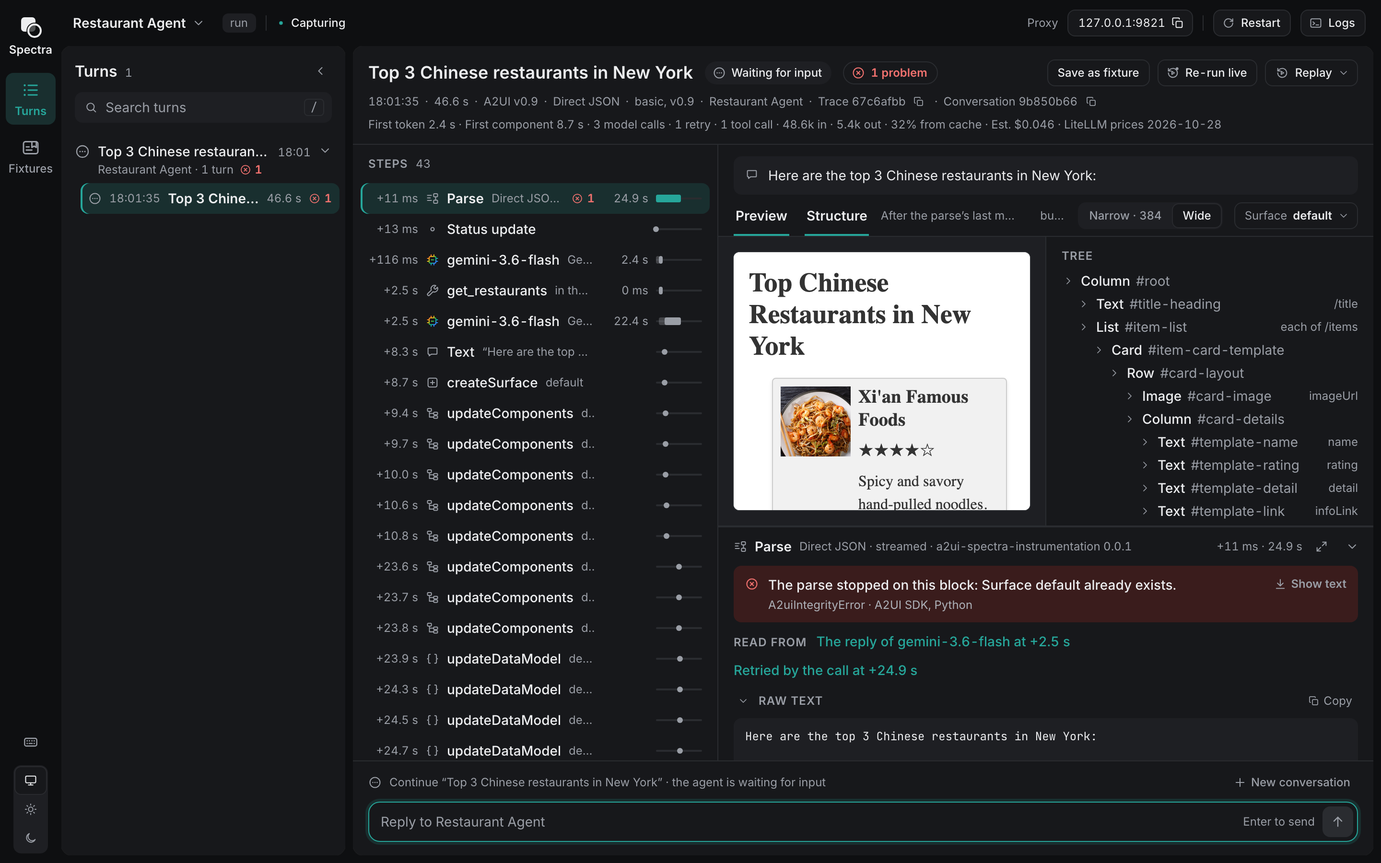
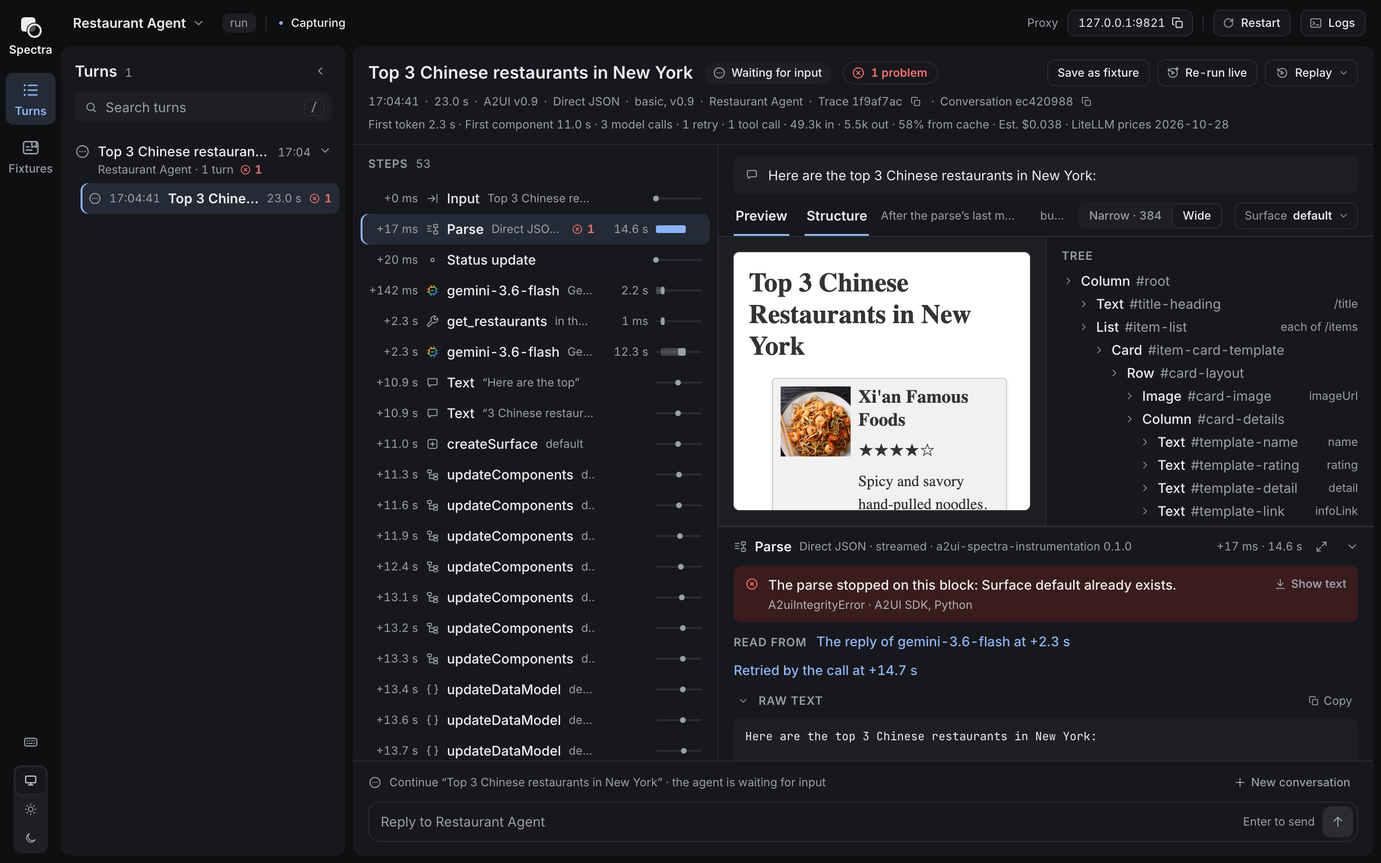
feat(phase-10): the viewer's accent following the primary colour of A2UI's documentation site, its --a2-accent, #0b57d0 in light and #8ab4f8 in dark, in place of its teal, as the design canvas draws it from its version 129: --brand-soft the site's soft accent flattened onto the panel, #ebf2fb and #2

diff --git a/tools/spectra_viewer/src/index.css b/tools/spectra_viewer/src/index.css
@@ -58,9 +58,9 @@
 }
 
 /*
- * The design artifact's colours. The one accent is the teal of A2UI's
- * documentation site, from Material Design's palette: 700 in light, 400 in
- * dark. shadcn/ui's names point at them.
+ * The design artifact's colours. The one accent is A2UI's documentation
+ * site's `--a2-accent`: #0b57d0 in light, #8ab4f8 in dark. shadcn/ui's names
+ * point at them.
  */
 :root {
   color-scheme: light;
@@ -69,8 +69,8 @@
   --panel: #ffffff;
   --tint: #f5f6f8;
   --muted-strong: #55595f;
-  --brand: #00796b;
-  --brand-soft: #e0f2f1;
+  --brand: #0b57d0;
+  --brand-soft: #ebf2fb;
   --brand-on: #ffffff;
   --problem: #c62828;
   --problem-soft: #fcedec;
@@ -105,9 +105,9 @@
   --panel: #17181b;
   --tint: #1e1f23;
   --muted-strong: #aeb2b9;
-  --brand: #26a69a;
-  --brand-soft: #192f2f;
-  --brand-on: #06201d;
+  --brand: #8ab4f8;
+  --brand-soft: #252b36;
+  --brand-on: #062e6f;
   --problem: #f2726f;
   --problem-soft: #3a1c1c;
   --success: #66bb6a;

diff --git a/tools/spectra_viewer/src/components/format.ts b/tools/spectra_viewer/src/components/format.ts
@@ -31,7 +31,7 @@ export function turnIconOf(turn: Pick<ListedTurn, 'open' | 'outcome' | 'newer'>)
   return STATUS_ICONS[turn.open ? 'open' : (turn.outcome ?? 'open')];
 }
 
-/** An icon's colour: grey for its shape alone, red for trouble, teal for what is live. */
+/** An icon's colour: grey for its shape alone, red for trouble, the accent for what is live. */
 /**
  * A model call's icon in its provider's colour: Claude's clay, OpenAI's in the
  * text colour, since OpenAI's mark carries no colour of its own, and Gemini's

diff --git a/tools/spectra_viewer/src/components/RawText.tsx b/tools/spectra_viewer/src/components/RawText.tsx
@@ -2,7 +2,7 @@
  * A parse's raw text with its component ranges: plain at rest, each
  * rejected block in red-soft; hovering outlines the innermost component
  * under the pointer, clicking selects it, and the selected component's
- * whole range takes the teal-soft tint. Text outside any component stays
+ * whole range takes the soft accent. Text outside any component stays
  * plain and links to nothing. A grey sentence above says when the ranges
  * are not all worked out.
  */

diff --git a/tools/spectra_viewer/src/components/Timeline.tsx b/tools/spectra_viewer/src/components/Timeline.tsx
@@ -262,7 +262,7 @@ function RowTag({tag}: {tag: string}) {
 /**
  * A row's lane: a narrow track with a call's bar from its start to its end,
  * lighter until a streamed model call's first token and darker after, or a
- * step's or a delivery's dot at its moment. Grey at rest, teal on the
+ * step's or a delivery's dot at its moment. Grey at rest, the accent on the
  * selected or followed row, red for a row with a problem.
  */
 function LaneMark({

diff --git a/tools/spectra_viewer/src/components/CallParts.tsx b/tools/spectra_viewer/src/components/CallParts.tsx
@@ -17,7 +17,7 @@ import {formatOffset} from './format.ts';
 import {Icon} from './icons.tsx';
 import {BlockLabel, JsonBlock, JsonLines} from './JsonBlock.tsx';
 
-/** A teal link in a detail's line, which selects another step. */
+/** A link in the accent, in a detail's line, which selects another step. */
 export function DetailLink({onClick, children}: {onClick: () => void; children: ReactNode}) {
   return (
     <button

diff --git a/docs/design/viewer.md b/docs/design/viewer.md
@@ -51,13 +51,13 @@ The restaurant finder runs under `a2ui-spectra run`, with the Python wrapper swi
 
 <picture>
   <source media="(prefers-color-scheme: dark)" srcset="../images/viewer-dark.png">
-  <img alt="The viewer on the restaurant finder's turn. The turn list holds one conversation with one turn and one problem. The header reads Top 3 Chinese restaurants in New York, Waiting for input, 1 problem, with Save as fixture, Re-run live and Replay; under it the start, the duration, A2UI v0.9, Direct JSON, basic v0.9, the agent and the ids, then First token 2.4 s, First component 8.7 s, 3 model calls, 1 retry, 1 tool call, the tokens, 32% from cache and the estimated cost. The timeline's selected row is the parse, with one problem. The result shows the preview of the restaurant card beside its tree, and the parse's detail below reads The parse stopped on this block: Surface default already exists, Read from the reply of gemini-3.6-flash at +2.5 s, Retried by the call at +24.9 s, then the raw text." src="../images/viewer-light.png">
+  <img alt="The viewer on the restaurant finder's turn. The turn list holds one conversation with one turn and one problem. The header reads Top 3 Chinese restaurants in New York, Waiting for input, 1 problem, with Save as fixture, Re-run live and Replay; under it the start, the duration, A2UI v0.9, Direct JSON, basic v0.9, the agent and the ids, then First token 2.3 s, First component 11.0 s, 3 model calls, 1 retry, 1 tool call, the tokens, 58% from cache and the estimated cost. The timeline's selected row is the parse, with one problem. The result shows the preview of the restaurant card beside its tree, and the parse's detail below reads The parse stopped on this block: Surface default already exists, Read from the reply of gemini-3.6-flash at +2.3 s, Retried by the call at +14.7 s, then the raw text." src="../images/viewer-light.png">
 </picture>
 
 1. **The turn opens.** The live stream says a turn opened. The turn list gains a row with the open turn's spinner, and since the newest turn was selected, the page selects the new one. The timeline is marked Live and follows its newest row.
-2. **The steps arrive.** A status update, then the first model call, `gemini-3.6-flash` in Gemini's colours, then the tool call `get_restaurants`, "in the agent", read from the agent's spans, then the second model call, whose bar is lighter until its first token and darker after. The parse row, "Parse · Direct JSON · streamed", draws a bar from its start to its end. The text part and the A2UI messages follow, each a dot at its moment.
+2. **The steps arrive.** A status update, then the first model call, `gemini-3.6-flash` in Gemini's colours, then the tool call `get_restaurants`, "in the agent", read from the agent's spans, then the second model call, whose bar is lighter until its first token and darker after. The parse row, "Parse · Direct JSON · streamed", draws a bar from its start to its end. Two text parts and the A2UI messages follow, each a dot at its moment.
 3. **The turn closes.** It ends waiting for input. The view lands on its first problem, the parse, and opens the step's detail on it. The header reads "1 problem"; its second line gives the start, the duration, the A2UI version, the inference format and the catalog the turn used; its third line the time to the first token and to the first component, the calls, the retry, the tokens, the share read from the cache and the estimated cost.
-4. **The parse's detail says what happened.** "The parse stopped on this block: Surface default already exists." over "A2uiIntegrityError · A2UI SDK, Python", with Show text. "Read from" links the model call whose reply the parse read, "The reply of gemini-3.6-flash at +2.5 s", and "Retried by the call at +24.9 s" links the call that followed. The raw text below has the rejected block in red.
+4. **The parse's detail says what happened.** "The parse stopped on this block: Surface default already exists." over "A2uiIntegrityError · A2UI SDK, Python", with Show text. "Read from" links the model call whose reply the parse read, "The reply of gemini-3.6-flash at +2.3 s", and "Retried by the call at +14.7 s" links the call that followed. The raw text below has the rejected block in red.
 5. **The result shows the surfaces after the parse.** The note reads "After the parse’s last message", the Preview draws the restaurant card through the basic catalog's renderer, and Structure shows its tree, each row with the path it binds.
 6. **The retry says why.** Selecting the third model call shows, before its prefix break, a grey sentence naming the call whose reply failed and the error, with "failed to parse" a link back to the parse.
 
@@ -239,14 +239,14 @@ On the right of the first line sit [Save as fixture](#save-as-fixture), [Re-run 
 
 | Part                        | What it counts                                                                                                                                         |
 | --------------------------- | ------------------------------------------------------------------------------------------------------------------------------------------------------ |
-| "First token 2.4 s"         | From the turn's start to the first model call's first chunk, or its end when it did not stream or is read from spans only. A miss gives no first token |
-| "First component 8.7 s"     | From the turn's start to the first A2UI message                                                                                                        |
+| "First token 2.3 s"         | From the turn's start to the first model call's first chunk, or its end when it did not stream or is read from spans only. A miss gives no first token |
+| "First component 11.0 s"    | From the turn's start to the first A2UI message                                                                                                        |
 | "3 model calls"             | The model calls, raw ones and those read from spans only included                                                                                      |
 | "1 retry"                   | The retries among them, when there are any                                                                                                             |
 | "1 tool call"               | The full tool rows: housekeeping and the toolset's calls, shown as their parses, are left out                                                          |
-| "48.6k in · 5.4k out"       | The input and output tokens summed over the calls with usage, those read from spans only included, as `9.1k` above a thousand                          |
-| "32% from cache"            | The share of the input read from the cache, when the turn read any                                                                                     |
-| "Est. $0.046"               | The estimated cost of the priced calls, to two significant figures and at most four decimals                                                           |
+| "49.3k in · 5.5k out"       | The input and output tokens summed over the calls with usage, those read from spans only included, as `9.1k` above a thousand                          |
+| "58% from cache"            | The share of the input read from the cache, when the turn read any                                                                                     |
+| "Est. $0.038"               | The estimated cost of the priced calls, to two significant figures and at most four decimals                                                           |
 | "1 call unpriced"           | How many calls have no price                                                                                                                           |
 | "LiteLLM prices 2026-10-28" | The price table's date, or "Prices from the config" when every priced call used the config's price                                                     |
 | "1 call recorded raw"       | How many calls were recorded raw                                                                                                                       |
@@ -283,7 +283,7 @@ A call recorded raw is grey, unless a span linked to it names its provider, whos
 
 **Tags and marks.** A model call that is a retry carries a grey "Retry 1" tag before the problem mark's column; which calls are retries is worked out as [the A2UI step](a2ui-step.md#what-spectra-does-with-the-spans) describes. Each step with a problem carries a red mark and its count, and a step whose message carried components in the legacy form carries an hourglass after it. A call served from the record carries "Record"; see [A served call](#a-served-call-a-miss-and-a-live-call).
 
-**The time lane.** Every row ends in a narrow lane, drawn against the length of the whole turn, from its start to the latest of its end and every row's end, the present on a live turn. A call is a bar: a model call's lighter until a streamed call's first token and darker after; a tool call's, a call's read from spans only and a model call's that did not stream, darker throughout; with its duration beside the lane. A step or a delivery is a dot at its moment. The lane is grey, teal on the selected row and red on a row with a problem. An in-flight call's duration counts up and its bar grows. An offset or a duration of a minute or more reads `1m 27s` in the timeline's columns, and so does an event's offset in the spans' events. As the timeline narrows, the target gives way first, then the name; the problem mark, the duration and the lane keep their width.
+**The time lane.** Every row ends in a narrow lane, drawn against the length of the whole turn, from its start to the latest of its end and every row's end, the present on a live turn. A call is a bar: a model call's lighter until a streamed call's first token and darker after; a tool call's, a call's read from spans only and a model call's that did not stream, darker throughout; with its duration beside the lane. A step or a delivery is a dot at its moment. The lane is grey, blue on the selected row and red on a row with a problem. An in-flight call's duration counts up and its bar grows. An offset or a duration of a minute or more reads `1m 27s` in the timeline's columns, and so does an event's offset in the spans' events. As the timeline narrows, the target gives way first, then the name; the problem mark, the duration and the lane keep their width.
 
 **What the result shows for a row.** Selecting a step shows the surfaces as they stood right after it. Selecting a parse shows them after the last wire message traced to it, "After the parse’s last message", or, when none is, as they stood at the parse's end, "Right after the parse at" its start. Selecting a call shows them at its end, or the latest state while it is in flight. A call's step in the page address is its proxy's span id, else its innermost span's.
 
@@ -462,7 +462,7 @@ The title line holds "Parse", on a toolset parse the tool's name, its format, "s
 
 1. **"Read from"**, the model call the parse read, as a link: "The reply of gemini-3.6-flash at +2.0 s"; "The tool call of gemini-3.6-flash at +1.4 s" when the input sits in one of its tool calls' arguments and in none of its text; or "Tied to no model call". Which call that is, is worked out as [the A2UI step](a2ui-step.md#what-spectra-does-with-the-spans) describes: the one of its turn whose reply text, or one of whose tool-call arguments, holds the parse's input or is held in it; when several, the one accounting for the most of the input, as a reply the input holds over a tool call's argument the input quotes, then the latest started before the parse, else the latest of them. Failing that, it is the latest model call started before the parse, unless two started at once.
 2. **"Retried by the call at +5.0 s"**, on a failed parse that was retried, on its own line, a link that selects the retry.
-3. **"Raw text"**, open, monospace, plain at rest, each rejected block in red. Each component's characters are worked out by a reader of the parse's inference format, as [the A2UI step](a2ui-step.md#what-spectra-does-with-the-spans) describes. Hovering outlines the innermost component under the pointer; clicking selects it, its whole range taking the teal tint, scrolled into view, and its tree node selected. Text outside any component stays plain. A grey sentence above says when the ranges are not all worked out: "No component ranges · the parse names no inference format", also for a format no reader reads; "No component ranges · the Express reader could not read this text"; or "Component ranges up to character 1,204 · the Express reader stopped there".
+3. **"Raw text"**, open, monospace, plain at rest, each rejected block in red. Each component's characters are worked out by a reader of the parse's inference format, as [the A2UI step](a2ui-step.md#what-spectra-does-with-the-spans) describes. Hovering outlines the innermost component under the pointer; clicking selects it, its whole range taking the blue tint, scrolled into view, and its tree node selected. Text outside any component stays plain. A grey sentence above says when the ranges are not all worked out: "No component ranges · the parse names no inference format", also for a format no reader reads; "No component ranges · the Express reader could not read this text"; or "Component ranges up to character 1,204 · the Express reader stopped there".
 4. **"Returned to the model"**, what the toolset's tool returned, on its call, its `validated_a2ui_json` folded.
 5. **"Messages"**, the messages the parse produced, folded on their label line with their count, those a failed parse produced before its error included.
 6. **The spans**: "From the agent’s spans", with the step span's scope as its source line; on a toolset parse, the parse's span first with its translated names, then the tool call's chain, "Above this tool call".
@@ -525,11 +525,11 @@ The Fixtures section switches the panels: the fixtures list and the fixture view
 
 #### The fixture view
 
-The fixture view is the turn view's shape, under a fixture line: "Fixture", the file's name as a copy button, the turn count, the recorded estimated cost, priced as the header's third line prices it, "recorded $0.036" or "recorded cost unknown", left out until the prices are read, or "nothing recorded to serve" on a record with nothing to serve, and when it was saved, "saved 2026-11-14 18:13".
+The fixture view is the turn view's shape, under a fixture line: "Fixture", the file's name as a copy button, the turn count, the recorded estimated cost, priced as the header's third line prices it, "recorded $0.038" or "recorded cost unknown", left out until the prices are read, or "nothing recorded to serve" on a record with nothing to serve, and when it was saved, "saved 2026-11-21 17:10".
 
 <picture>
   <source media="(prefers-color-scheme: dark)" srcset="../images/replay-menu-dark.png">
-  <img alt="The Fixtures section with one fixture, chinese-restaurants, holding one turn with one problem. Its view's fixture line reads Fixture, chinese-restaurants.json, 1 turn, recorded $0.036, saved 2026-11-14 18:13. The Replay popover is open with two rows: Everything recorded, Free, the model and the tools answer from the record; and Tools recorded, model live, Up to $0.036, a request that changed goes to the model." src="../images/replay-menu-light.png">
+  <img alt="The Fixtures section with one fixture, chinese-restaurants, holding one turn with one problem. Its view's fixture line reads Fixture, chinese-restaurants.json, 1 turn, recorded $0.038, saved 2026-11-21 17:10. The Replay popover is open with two rows: Everything recorded, Free, the model and the tools answer from the record; and Tools recorded, model live, Up to $0.038, a request that changed goes to the model." src="../images/replay-menu-light.png">
 </picture>
 
 - A press in its preview is dropped.
@@ -549,7 +549,7 @@ Replay sits on the right of the header's first line, in Turns and in the fixture
 | Row                          | Cost label                                                                                                                                                                                                                    |
 | ---------------------------- | ----------------------------------------------------------------------------------------------------------------------------------------------------------------------------------------------------------------------------- |
 | "Everything recorded"        | "Free · the model and the tools answer from the record"; on a record with nothing to serve, by the server's rule, the row is off and reads "No model or tool calls were recorded"                                             |
-| "Tools recorded, model live" | "Up to $0.036 · a request that changed goes to the model", the record's recorded cost; "Cost unknown · a request that changed goes to the model" with no priced call; "Cost unknown · nothing recorded" with nothing to serve |
+| "Tools recorded, model live" | "Up to $0.038 · a request that changed goes to the model", the record's recorded cost; "Cost unknown · a request that changed goes to the model" with no priced call; "Cost unknown · nothing recorded" with nothing to serve |
 
 Both rows are off, with Re-run's note under their label, whenever [Re-run live](#re-run-live) is. The server is the authority on a refusal: its answer is shown in the popover, with nothing moved. Pressing a row starts the replay; the rows are off while the request is on its way, and the popover closes once the first turn has opened. The page switches to Turns and follows the replayed turns as they open, until another turn is selected or the address moves. In the fixture view, Replay replays the whole fixture, whatever turn is in view. What the two modes do is in [replay and fixtures](replay-and-fixtures.md).
 
@@ -573,7 +573,7 @@ A replayed turn has a fourth quiet line under its header: "Replayed from", the s
 
 <picture>
   <source media="(prefers-color-scheme: dark)" srcset="../images/replay-passed-dark.png">
-  <img alt="A replayed turn of the fixture. The header's third line reads First token 14 ms, First component 72 ms, 1 retry, 1 tool call, 3 calls from the record, Free; the fourth line reads Replayed from chinese-restaurants.json, turn 1 of 1, everything recorded, passed. The two served model calls carry a grey Record tag in the timeline." src="../images/replay-passed-light.png">
+  <img alt="A replayed turn of the fixture. The header's third line reads First token 175 ms, First component 231 ms, 1 retry, 1 tool call, 3 calls from the record, Free; the fourth line reads Replayed from chinese-restaurants.json, turn 1 of 1, everything recorded, passed. The two served model calls carry a grey Record tag in the timeline." src="../images/replay-passed-light.png">
 </picture>
 
 A re-run turn's line reads "Re-run of", its source, its number of the total and "live", with no verdict and no colour, and its header's third line counts every call as live.
@@ -612,7 +612,7 @@ Its header, "Logs", names the agent's command, cut, and counts the lines held an
 - **Each output line**, with its time to the millisecond in the page's time zone, its stream as `out` or `err`, and its text, the ANSI escape codes stripped and only what follows the line's last carriage return shown, the carriage returns the line ends in not counted. A long line scrolls sideways while the dividers and markers stay in view.
 - **Each divider** the buffer holds, "Started · uv run ." and "Stopped · prompt_builder.py changed · exited with code 143", the session's first start included; a long one is cut, with its whole text as its tooltip.
 - **"No output yet."**, under the dividers for as long as no output line is held.
-- **Turn markers.** Each listed turn, whatever agent the turn list is showing, is marked where it opened, "Turn opened ·" and its name as the turn list names it, or "A turn" before its input has come, a link that selects it in Turns and leaves the drawer open; and where it closed, "Turn closed ·" with its outcome in the header's words, lower-case, and its duration, "Turn closed · waiting for input · 46.6 s". A marker is drawn only when its moment is not earlier than the oldest entry the buffer holds; among the entries of its millisecond, an opened marker comes first and a closed one last.
+- **Turn markers.** Each listed turn, whatever agent the turn list is showing, is marked where it opened, "Turn opened ·" and its name as the turn list names it, or "A turn" before its input has come, a link that selects it in Turns and leaves the drawer open; and where it closed, "Turn closed ·" with its outcome in the header's words, lower-case, and its duration, "Turn closed · waiting for input · 23.0 s". A marker is drawn only when its moment is not earlier than the oldest entry the buffer holds; among the entries of its millisecond, an opened marker comes first and a closed one last.
 
 The drawer follows its end until the reader scrolls up, and Jump to latest resumes. It closes by its close button, "Close the logs", or by Logs; Escape does not close it. While the page is not connected, it keeps what it held.
 

diff --git a/docs/design/turn-end-to-end.md b/docs/design/turn-end-to-end.md
@@ -64,7 +64,7 @@ The record states what each tap saw. The retry, the model call a parse read, the
 
 The restaurant finder runs from its folder in upstream's repository under `a2ui-spectra run`, launched through `opentelemetry-instrument` with [the recipe for a Python agent](opentelemetry.md#the-recipe-for-a-python-agent) and the Python wrapper, [switched on](a2ui-step.md#switching-it-on) by the same launch. Its model is Gemini's `gemini-3.6-flash`, which ADK calls through Google's SDK, google-genai. You send "Top 3 Chinese restaurants in New York" from the message box. The viewer, from that run:
 
-![The viewer on upstream's Python restaurant finder. The first screen names the agent, Restaurant Agent, capturing, with an example from its card and the wire proxy's address. Then the turn Top 3 Chinese restaurants in New York is open, its timeline marked Live: the input, a status update, the first model call, the tool call get_restaurants and the second model call arrive as steps, then a text and the A2UI messages, while the built-in page draws the restaurant list in the preview and the tree grows in Structure. A third model call is tagged Retry 1. The turn closes waiting for input, with one problem, and the view lands on the parse.](../images/turn.gif)
+![The viewer on upstream's Python restaurant finder. The first screen names the agent, Restaurant Agent, capturing, with an example from its card and the wire proxy's address. Then the turn Top 3 Chinese restaurants in New York is open, its timeline marked Live: the input, a status update, the first model call, the tool call get_restaurants and the second model call arrive as steps, then two text parts and the A2UI messages, while the built-in page draws the restaurant list in the preview and the tree grows in Structure. A third model call is tagged Retry 1. The turn closes waiting for input, with one problem, and the view lands on the parse.](../images/turn.gif)
 
 The parts the turn crosses, in order:
 
@@ -210,7 +210,7 @@ The two numbers are the rejected block's place in the parse's input, in UTF-16 c
 
 ### 6. The replies cross the wire, and the turn closes
 
-The restaurant finder answers with a stream of A2A status updates. Each A2UI message rides in a data part marked with A2UI's MIME type. The wire proxy passes the stream on to the message box as it arrives and reads a copy: each delivery becomes a `wire_output` event, its A2UI parts kept as the agent wrote them, and each is on the live stream as it is captured. The viewer draws them as steps: a text, `createSurface` for `default`, then the `updateComponents` and `updateDataModel` messages that fill it.
+The restaurant finder answers with a stream of A2A status updates. Each A2UI message rides in a data part marked with A2UI's MIME type. The wire proxy passes the stream on to the message box as it arrives and reads a copy: each delivery becomes a `wire_output` event, its A2UI parts kept as the agent wrote them, and each is on the live stream as it is captured. The viewer draws them as steps: two text parts, `createSurface` for `default`, then the `updateComponents` and `updateDataModel` messages that fill it.
 
 The turn closes when the agent's reply ends. Its outcome is the last task state the reply carried, `input-required`, written `waiting_for_input` and shown as "Waiting for input"; its protocol version is its first A2UI message's, `v0.9`. [Where A2UI sits in an A2A message](wire.md#where-a2ui-sits-in-an-a2a-message) and [how a turn closes](wire.md#how-a-turn-closes-and-its-outcome) have the rules.
 
@@ -250,10 +250,10 @@ The store then writes the turn as one turn record file, `.a2ui-spectra/turns/<co
 
 <picture>
   <source media="(prefers-color-scheme: dark)" srcset="../images/viewer-dark.png">
-  <img alt="The viewer on the closed turn. The context bar reads Restaurant Agent, run, Capturing, with the wire proxy's address 127.0.0.1:9821, Restart and Logs. The turn list holds one conversation with one turn and one problem. The header reads Top 3 Chinese restaurants in New York, Waiting for input, 1 problem, with Save as fixture, Re-run live and Replay; then 18:01:35, 46.6 s, A2UI v0.9, Direct JSON, basic v0.9, Restaurant Agent and the trace and conversation ids; then First token 2.4 s, First component 8.7 s, 3 model calls, 1 retry, 1 tool call, 48.6k in, 5.4k out, 32% from cache, Est. $0.046, LiteLLM prices 2026-10-28. The timeline's selected row is the parse. The result shows the restaurant card in the Preview beside its tree in Structure, and the parse's detail reads The parse stopped on this block: Surface default already exists, Read from the reply of gemini-3.6-flash at +2.5 s, Retried by the call at +24.9 s, then the raw text." src="../images/viewer-light.png">
+  <img alt="The viewer on the closed turn. The context bar reads Restaurant Agent, run, Capturing, with the wire proxy's address 127.0.0.1:9821, Restart and Logs. The turn list holds one conversation with one turn and one problem. The header reads Top 3 Chinese restaurants in New York, Waiting for input, 1 problem, with Save as fixture, Re-run live and Replay; then 17:04:41, 23.0 s, A2UI v0.9, Direct JSON, basic v0.9, Restaurant Agent and the trace and conversation ids; then First token 2.3 s, First component 11.0 s, 3 model calls, 1 retry, 1 tool call, 49.3k in, 5.5k out, 58% from cache, Est. $0.038, LiteLLM prices 2026-10-28. The timeline's selected row is the parse. The result shows the restaurant card in the Preview beside its tree in Structure, and the parse's detail reads The parse stopped on this block: Surface default already exists, Read from the reply of gemini-3.6-flash at +2.3 s, Retried by the call at +14.7 s, then the raw text." src="../images/viewer-light.png">
 </picture>
 
-The closed turn, from the same run. The viewer reads the session and the turns from Spectra's server, follows the live stream, and works out what it shows from the record. The header gives the request, the outcome, "Waiting for input", and the one problem; then the start, the duration, the A2UI version, the inference format and the catalog the turn used, the agent and the trace and conversation ids; then the time to the first token and to the first component, the 3 model calls, the 1 retry, the 1 tool call, the tokens, the share read from the cache and the estimated cost, with the date of the price table. The turn landed on its first problem: the parse, selected in the timeline among its 43 steps, its detail reading "The parse stopped on this block: Surface default already exists.", "Read from" the reply of the call at +2.5 s, and "Retried by the call at +24.9 s", over the raw text. The result beside the timeline shows the surface after the parse's last message, the restaurant card in the Preview and its tree in Structure, each node with the path it binds. The composer offers to continue the conversation, the agent waiting for input. [The viewer](viewer.md) takes the page area by area.
+The closed turn, from the same run. The viewer reads the session and the turns from Spectra's server, follows the live stream, and works out what it shows from the record. The header gives the request, the outcome, "Waiting for input", and the one problem; then the start, the duration, the A2UI version, the inference format and the catalog the turn used, the agent and the trace and conversation ids; then the time to the first token and to the first component, the 3 model calls, the 1 retry, the 1 tool call, the tokens, the share read from the cache and the estimated cost, with the date of the price table. The turn landed on its first problem: the parse, selected in the timeline among its 53 steps, its detail reading "The parse stopped on this block: Surface default already exists.", "Read from" the reply of the call at +2.3 s, and "Retried by the call at +14.7 s", over the raw text. The result beside the timeline shows the surface after the parse's last message, the restaurant card in the Preview and its tree in Structure, each node with the path it binds. The composer offers to continue the conversation, the agent waiting for input. [The viewer](viewer.md) takes the page area by area.
 
 ### 9. The preview draws the surface
 
@@ -265,17 +265,17 @@ Save as fixture copies a turn's record, whole, into the fixtures folder, `a2ui-s
 
 <picture>
   <source media="(prefers-color-scheme: dark)" srcset="../images/replay-menu-dark.png">
-  <img alt="The Fixtures section with one fixture, chinese-restaurants, holding one turn with one problem. The fixture line reads Fixture, chinese-restaurants.json, 1 turn, recorded $0.036, saved 2026-11-14 18:13, over the turn Top 3 Chinese restaurants in New York, 18:12:35, 25.0 s. The Replay menu is open: Everything recorded, Free, the model and the tools answer from the record; and Tools recorded, model live, Up to $0.036, a request that changed goes to the model." src="../images/replay-menu-light.png">
+  <img alt="The Fixtures section with one fixture, chinese-restaurants, holding one turn with one problem. The fixture line reads Fixture, chinese-restaurants.json, 1 turn, recorded $0.038, saved 2026-11-21 17:10, over the turn Top 3 Chinese restaurants in New York, 17:04:41, 23.0 s. The Replay menu is open: Everything recorded, Free, the model and the tools answer from the record; and Tools recorded, model live, Up to $0.038, a request that changed goes to the model." src="../images/replay-menu-light.png">
 </picture>
 
-A later turn of the same request, 25.0 seconds long, saved as `chinese-restaurants.json`. The fixture line reads 1 turn, recorded $0.036, saved 2026-11-14 18:13, and the Replay menu offers its two modes, "Everything recorded", free, and "Tools recorded, model live", up to $0.036.
+The same turn, saved as `chinese-restaurants.json`. The fixture line reads 1 turn, recorded $0.038, saved 2026-11-21 17:10, and the Replay menu offers its two modes, "Everything recorded", free, and "Tools recorded, model live", up to $0.038.
 
 <picture>
   <source media="(prefers-color-scheme: dark)" srcset="../images/replay-passed-dark.png">
-  <img alt="The replayed turn, listed above the turn it replayed. Its header reads 18:13:09, 146 ms; First token 14 ms, First component 72 ms, 1 retry, 1 tool call, 3 calls from the record, Free; and Replayed from chinese-restaurants.json, turn 1 of 1, everything recorded, passed. The model calls in the timeline carry a Record tag, and the parse's detail reads The parse stopped on this block: Surface default already exists, Read from the reply of gemini-3.6-flash at +23 ms, Retried by the call at +81 ms." src="../images/replay-passed-light.png">
+  <img alt="The replayed turn, listed above the turn it replayed. Its header reads 17:31:44, 315 ms; First token 175 ms, First component 231 ms, 1 retry, 1 tool call, 3 calls from the record, Free; and Replayed from chinese-restaurants.json, turn 1 of 1, everything recorded, passed. The model calls in the timeline carry a Record tag, and the parse's detail reads The parse stopped on this block: Surface default already exists, Read from the reply of gemini-3.6-flash at +187 ms, Retried by the call at +250 ms." src="../images/replay-passed-light.png">
 </picture>
 
-Its replay with everything recorded: 146 ms, "3 calls from the record · Free", and "Replayed from chinese-restaurants.json · turn 1 of 1 · everything recorded · passed". The served model calls carry a Record tag, and the parse fails as it did in the recording, read from the reply served at +23 ms and retried by the call at +81 ms: the agent's own code runs again on the same replies.
+Its replay with everything recorded: 315 ms, "3 calls from the record · Free", and "Replayed from chinese-restaurants.json · turn 1 of 1 · everything recorded · passed". The served model calls carry a Record tag, and the parse fails as it did in the recording, read from the reply served at +187 ms and retried by the call at +250 ms: the agent's own code runs again on the same replies.
 
 ## How the parts meet
 

diff --git a/README.md b/README.md
@@ -20,7 +20,7 @@
 
 ![A message sent to upstream's Python restaurant finder from Spectra's viewer: the model call, the tool call and the A2UI messages arrive as steps while the surface draws itself in the preview](docs/images/turn.gif)
 
-<sub>Upstream's Python restaurant finder on Gemini, at three times speed.</sub>
+<sub>Upstream's Python restaurant finder on Gemini, at four times speed.</sub>
 
 ## Why
 
